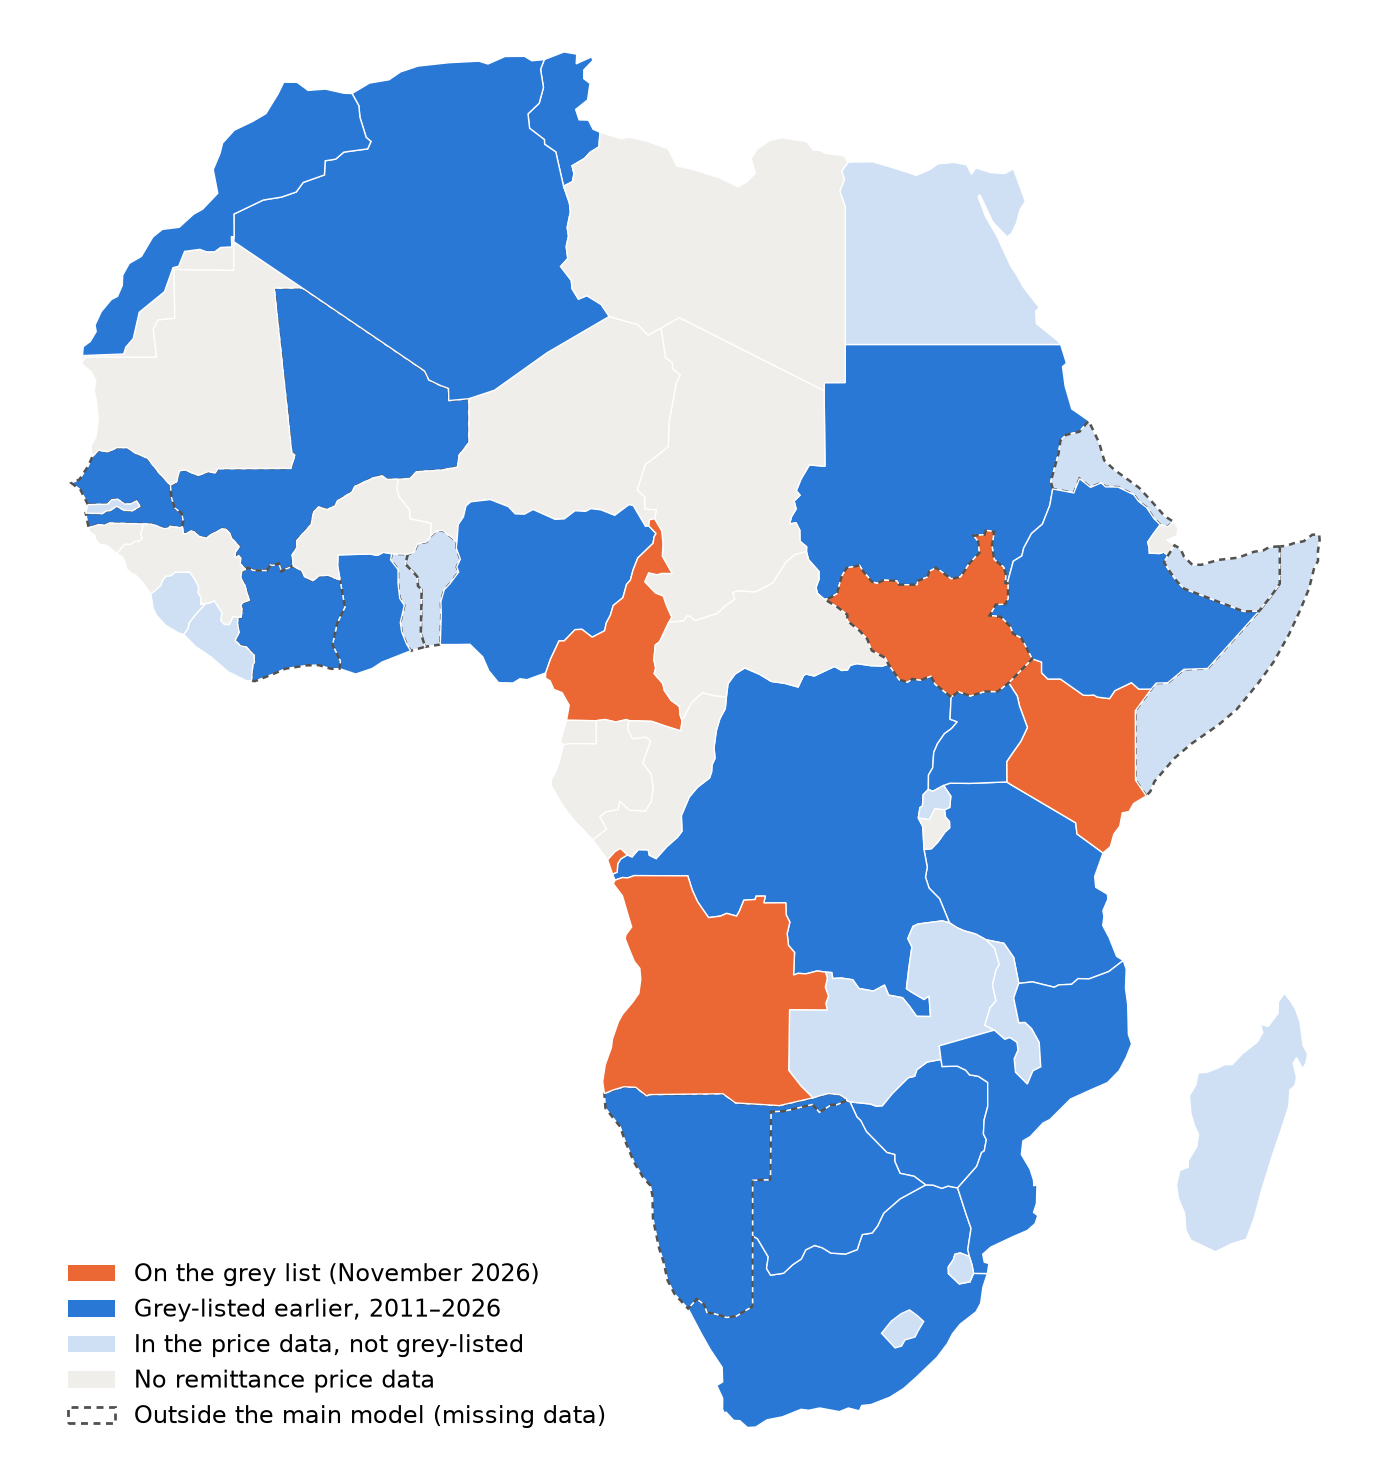
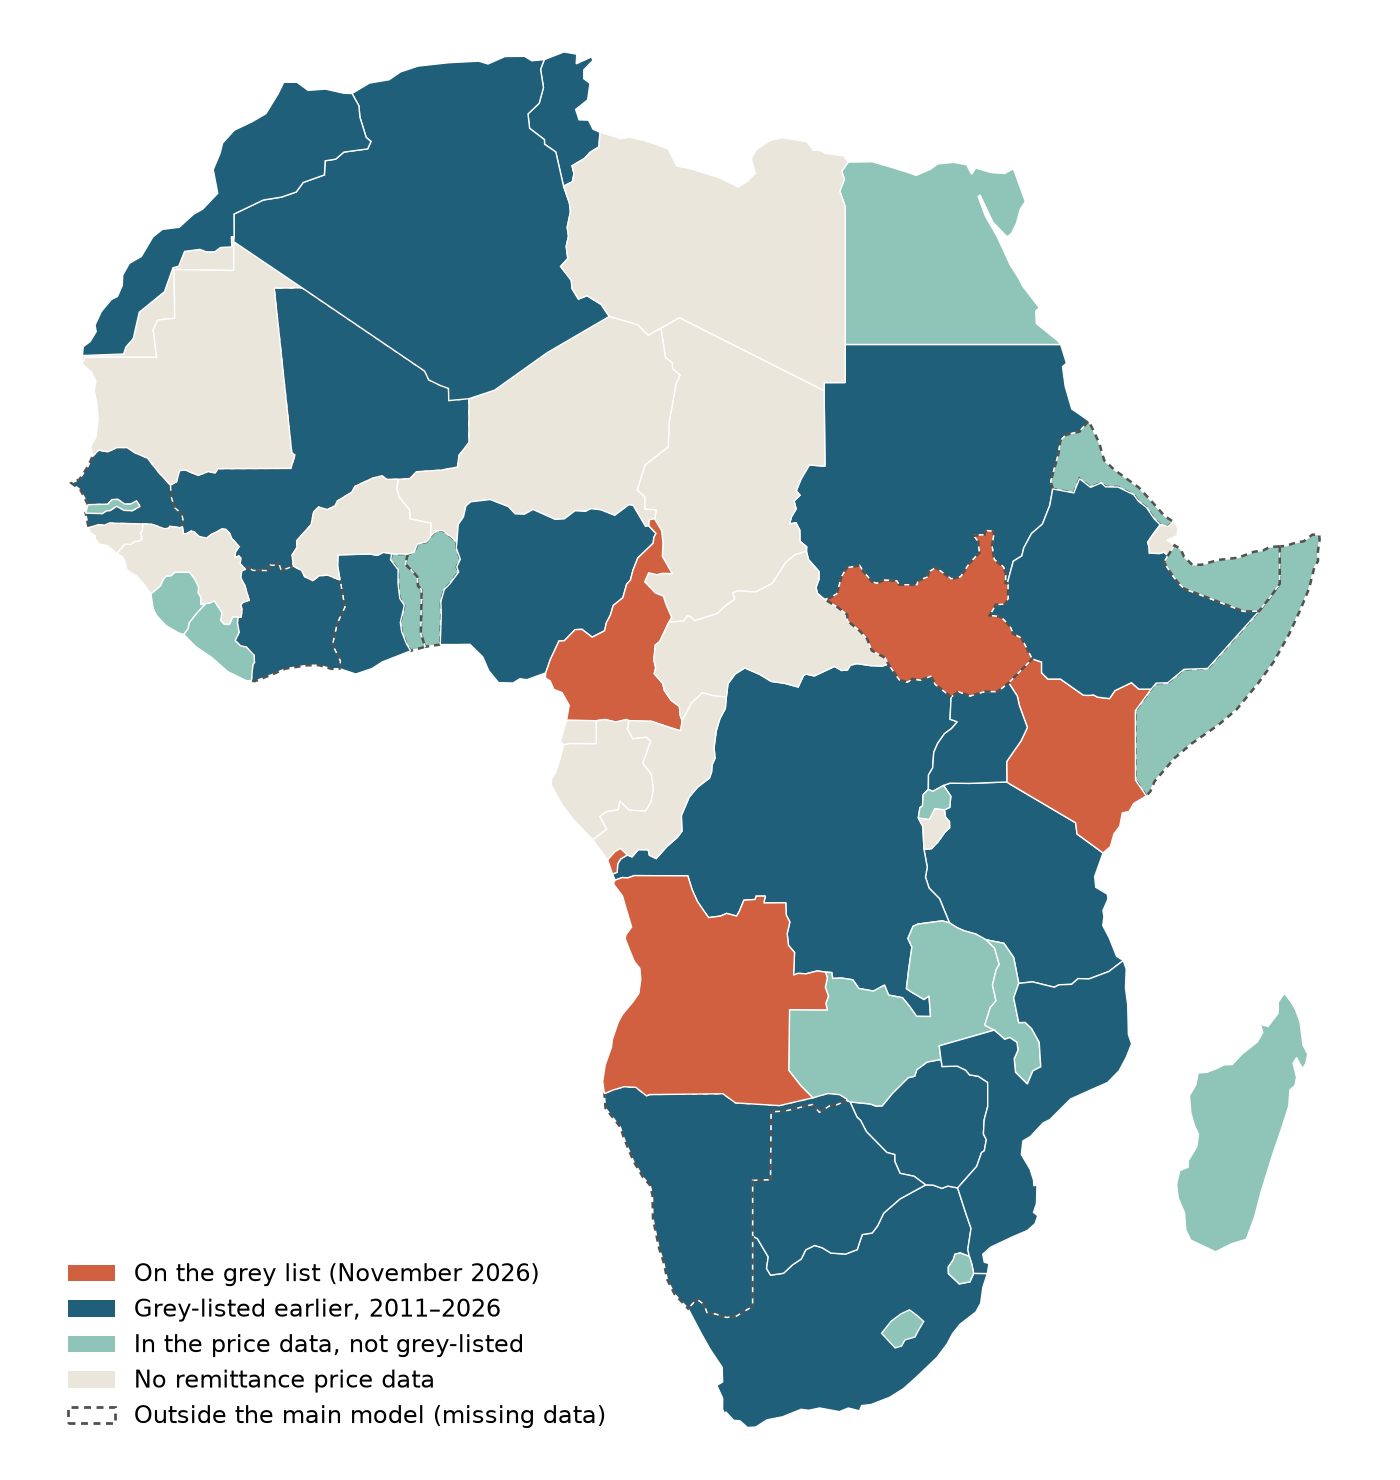
Map figure in website colours

diff --git a/scripts/11_map_figure.py b/scripts/11_map_figure.py
@@ -19,7 +19,7 @@ matplotlib.use("Agg")                      # draw to a file (Cloud Shell has no 
 import matplotlib.pyplot as plt           # noqa: E402
 from matplotlib.patches import Patch, Polygon  # noqa: E402
 
-COLOURS = {"current": "#eb6834", "earlier": "#2a78d6", "never": "#cfe0f5", "nodata": "#efeeea"}
+COLOURS = {"current": "#d0603f", "earlier": "#1f5f7a", "never": "#8ec5b8", "nodata": "#ebe6dc"}
 LABELS = {"current": "On the grey list (November 2026)", "earlier": "Grey-listed earlier, 2011–2026",
           "never": "In the price data, not grey-listed", "nodata": "No remittance price data"}
 FIX = {"SDS": "SSD", "SAH": "ESH", "SOL": "SOM"}   # Natural Earth codes -> ISO3 used in the data

diff --git a/scripts/10_map_data.py b/scripts/10_map_data.py
@@ -152,3 +152,4 @@ print("  grey episodes:", [(g['listed'], g['removed']) for g in k.get('grey_epis
 print("  cost 2011 / last year:", k.get("cost", [None])[0], "/", k.get("cost", [None])[-1])
 print("  2024 targets:", k.get("targets_2024"))
 print(f"\nSaved docs/map_data.json ({os.path.getsize('docs/map_data.json') / 1024:.0f} KB)")
+~/africa-de
